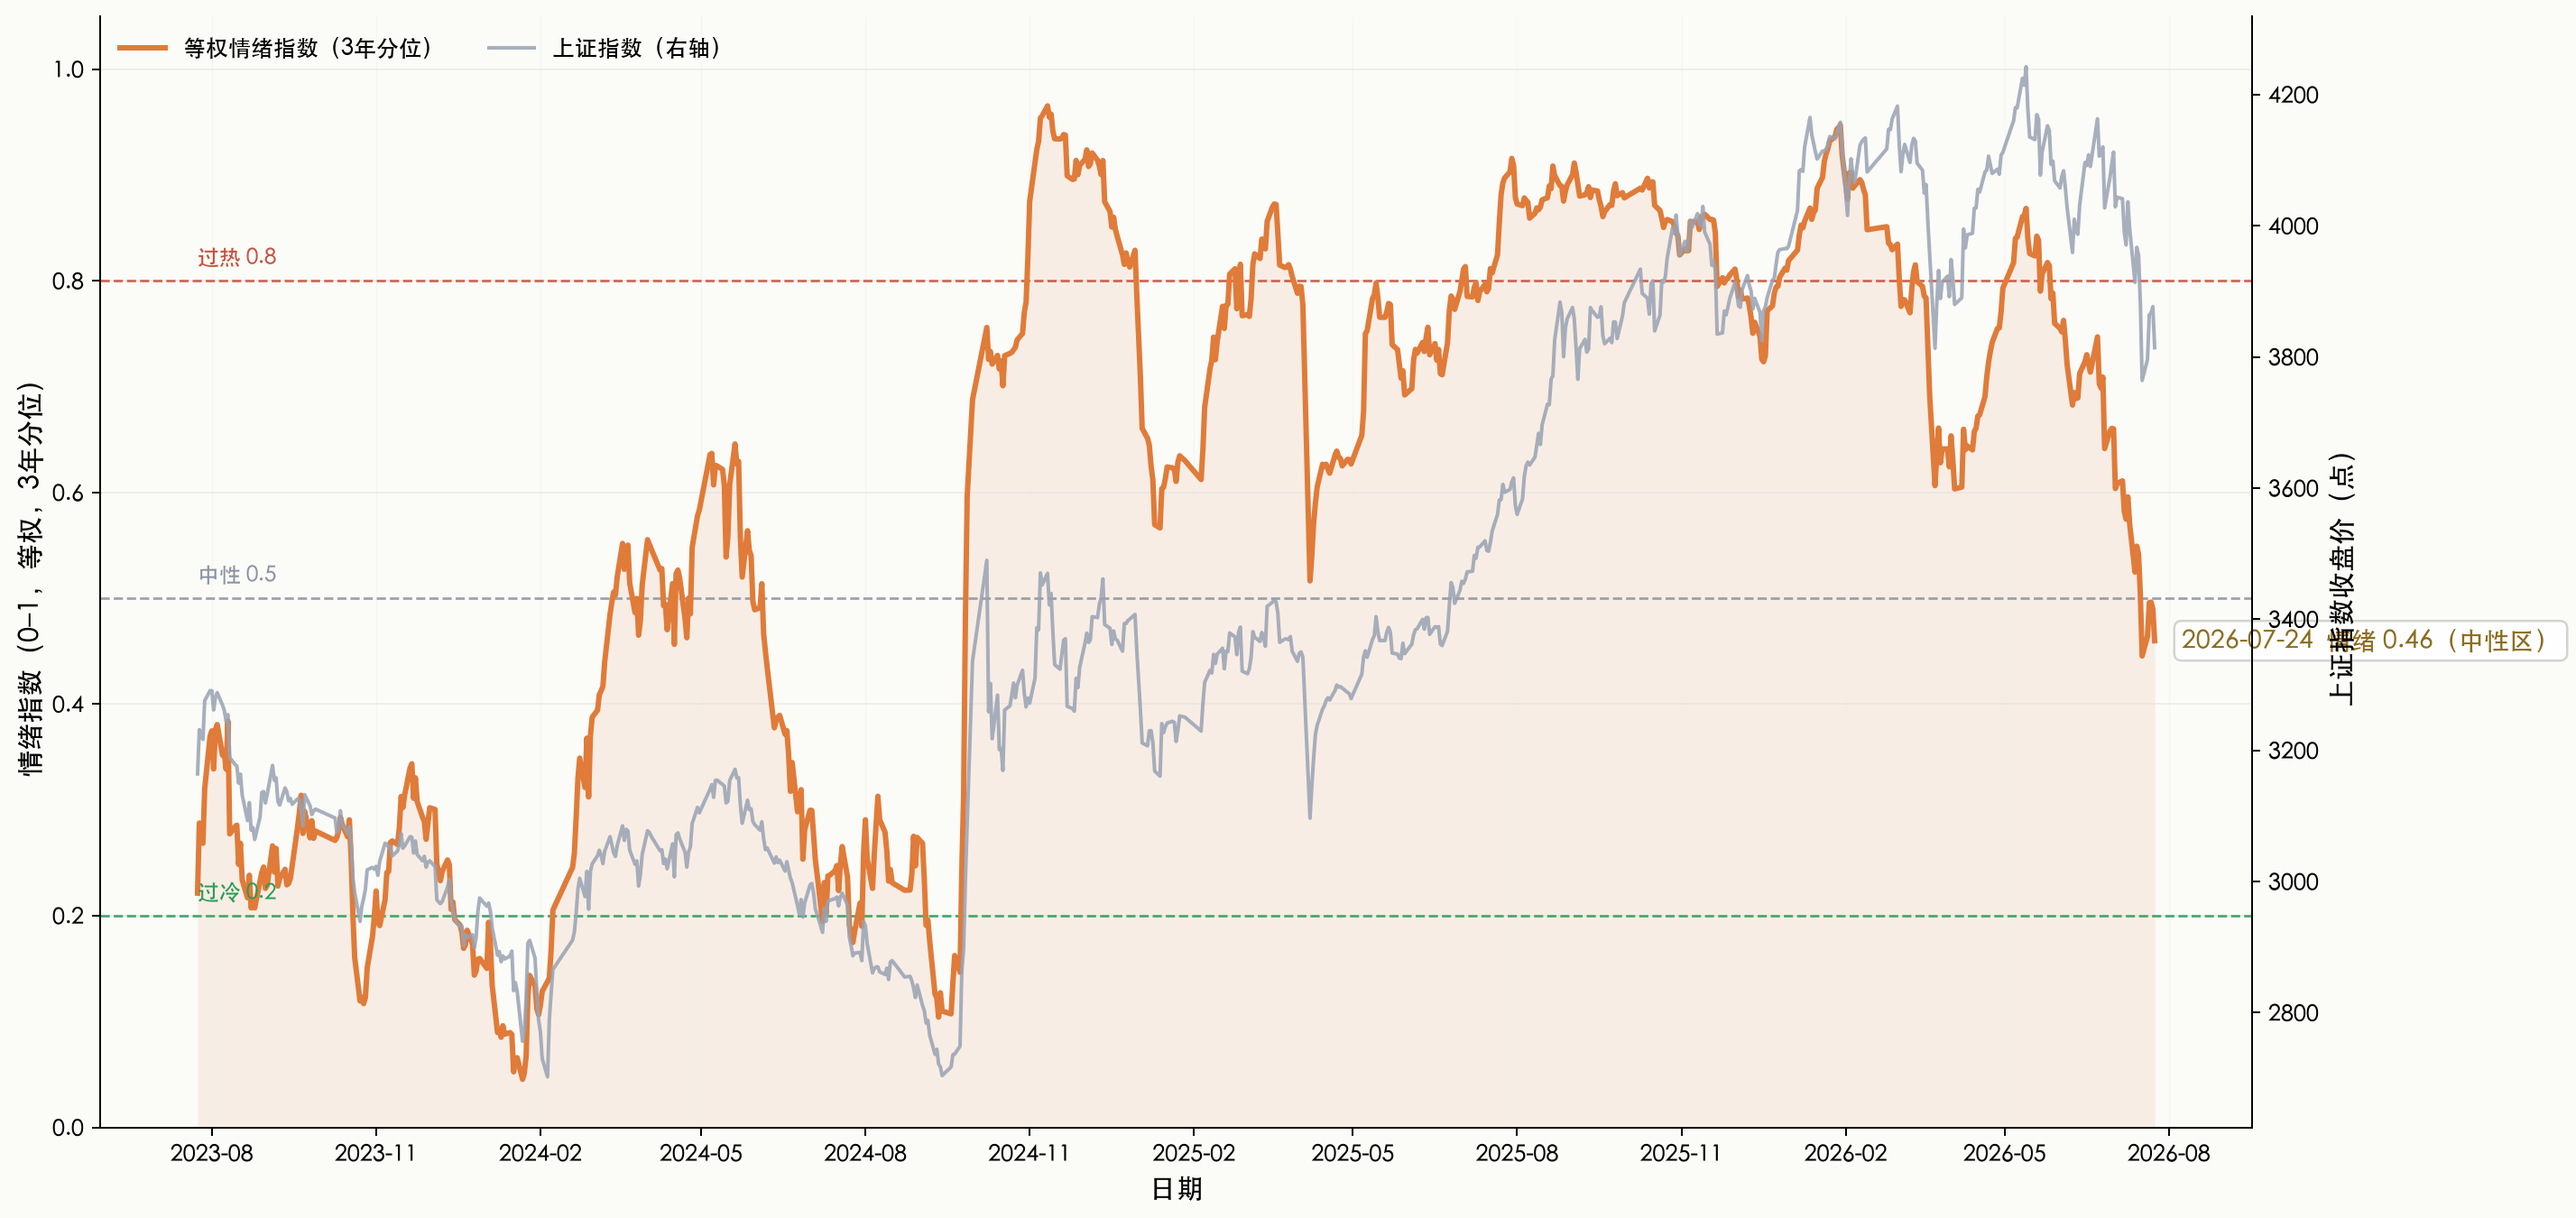
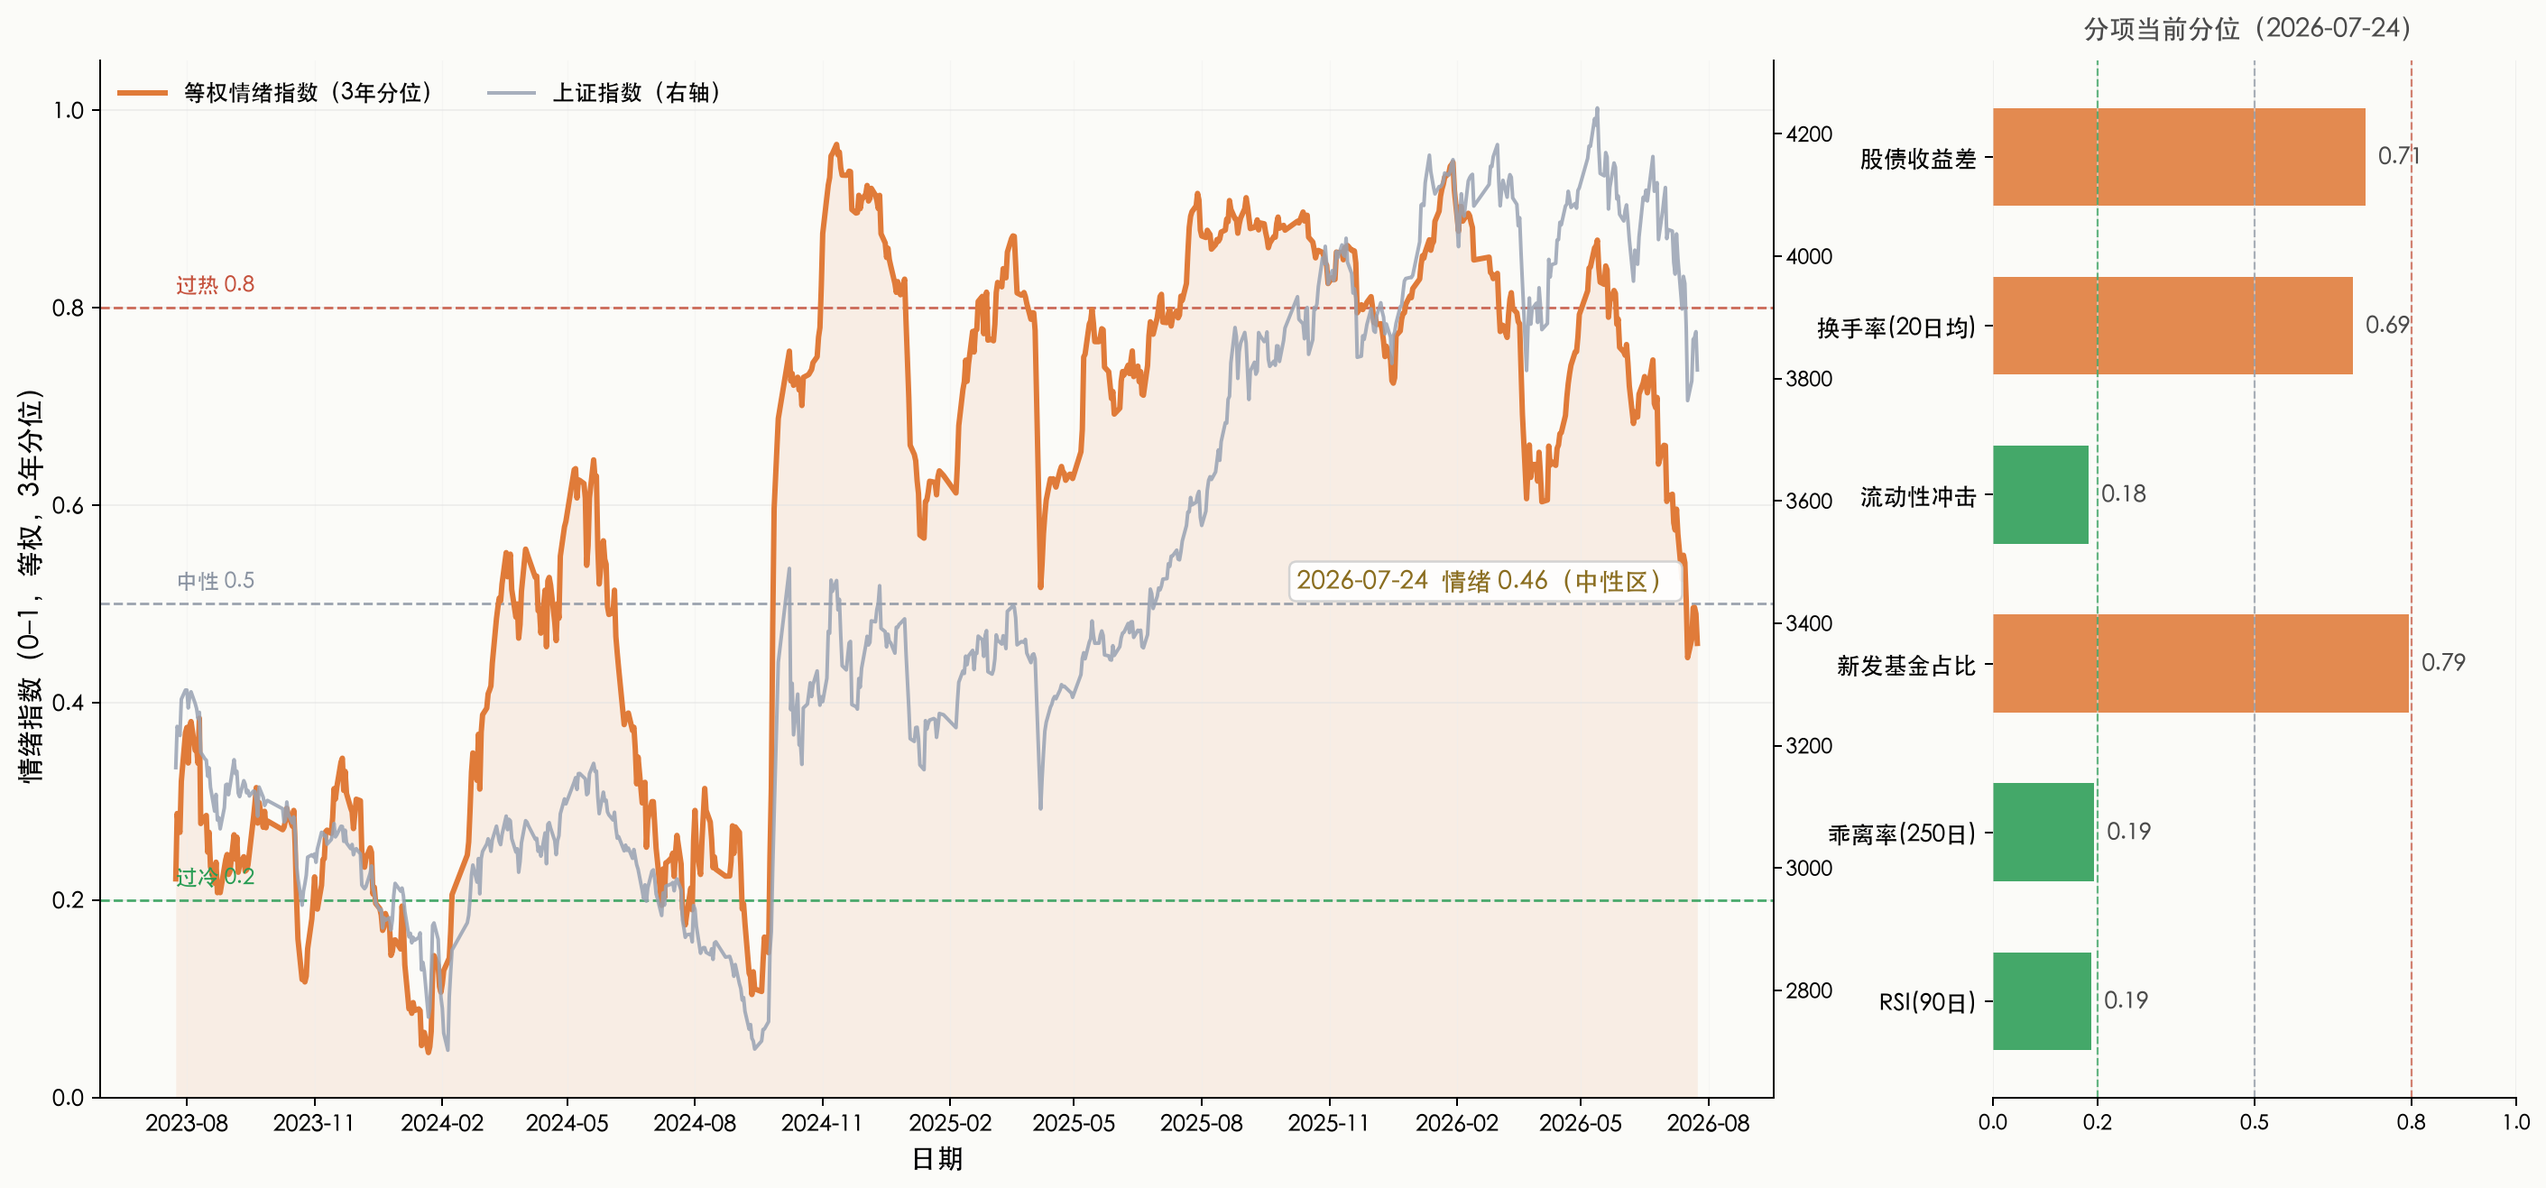
add component percentile side panel to sentiment chart; move concentration chart to sentiment panel

diff --git a/site/index.html b/site/index.html
@@ -96,15 +96,7 @@
     <section class="category-panel" id="panel-liquidity" data-category="liquidity" hidden>
       <div class="category-head"><span class="sec-num">05</span><h2>流动性</h2></div>
       <section class="chart-section">
-        <h2><span class="chart-num">007</span>A股成交额前10大公司交易集中度变化（截至2026-07-06）<span class="freq-badge">日频</span></h2>
-        <img src="assets/charts/fig_003_a_share_turnover_concentration.png?v=20260706" alt="A股成交额前10大公司交易集中度变化">
-        <div class="chart-notes">
-          <p><strong>数据说明：</strong>样本覆盖当前沪深京A股清单；逐日计算前10、前100成交额占比。右轴为上证指数收盘价。</p>
-          <p><strong>风险提示：</strong>个股成交额排名依赖公开行情接口完整性；停牌、新股、北交所覆盖和接口延迟都可能影响集中度读数。</p>
-        </div>
-      </section>
-      <section class="chart-section">
-        <h2><span class="chart-num">008</span>南向资金每日净流入（截至2026-07-24）<span class="freq-badge">日频</span></h2>
+        <h2><span class="chart-num">007</span>南向资金每日净流入（截至2026-07-24）<span class="freq-badge">日频</span></h2>
         <img src="assets/charts/fig_009_southbound_flow.png?v=20260724" alt="南向资金每日净流入">
         <div class="chart-notes">
           <p><strong>数据说明：</strong>区间自 2026-01-01 起。数据来自东方财富沪深港通历史数据，经 AkShare 获取；净流入口径为“当日成交净买额”，单位为亿元。</p>
@@ -112,7 +104,7 @@
         </div>
       </section>
       <section class="chart-section">
-        <h2><span class="chart-num">009</span>沪深300/上证指数 vs. 大宽基ETF资金流<span class="freq-badge">日频</span></h2>
+        <h2><span class="chart-num">008</span>沪深300/上证指数 vs. 大宽基ETF资金流<span class="freq-badge">日频</span></h2>
         <img src="assets/charts/fig_001_broad_etf_flow.png?v=20260706" alt="沪深300与上证指数走势及大宽基ETF资金流">
         <div class="chart-notes">
           <p><strong>数据说明：</strong>样本：510300、510310、510330、159919、510050。上交所 ETF 份额来自上交所历史规模接口；159919 份额来自深交所基金规模日频接口。净流入口径为份额变化乘以单位净值；7日滚动合计按交易日滚动计算。</p>
@@ -120,7 +112,7 @@
         </div>
       </section>
       <section class="chart-section">
-        <h2><span class="chart-num">010</span>科创50指数 vs. 科创50ETF资金流<span class="freq-badge">日频</span></h2>
+        <h2><span class="chart-num">009</span>科创50指数 vs. 科创50ETF资金流<span class="freq-badge">日频</span></h2>
         <img src="assets/charts/fig_002_star50_etf_flow.png?v=20260706" alt="科创50指数走势及科创50ETF资金流">
         <div class="chart-notes">
           <p><strong>数据说明：</strong>样本：588000 华夏科创50ETF。净流入口径为份额变化乘以单位净值；7日滚动合计按交易日滚动计算。</p>
@@ -132,11 +124,19 @@
     <section class="category-panel" id="panel-sentiment" data-category="sentiment" hidden>
       <div class="category-head"><span class="sec-num">06</span><h2>情绪</h2></div>
       <section class="chart-section">
-        <h2><span class="chart-num">011</span>上证等权情绪指数（3年分位）（截至2026-07-24）<span class="freq-badge">日频</span></h2>
+        <h2><span class="chart-num">010</span>上证等权情绪指数（3年分位）（截至2026-07-24）<span class="freq-badge">日频</span></h2>
         <img src="assets/charts/fig_011_sentiment_index.png?v=20260724" alt="上证等权情绪指数">
         <div class="chart-notes">
           <p><strong>数据说明：</strong>六个指标等权平均：股债收益差、自由流通换手率(20日均)、流动性冲击、30日新发基金占比、乖离率(250日)、RSI(90日)；各取过去750个交易日(约3年)分位数后等权。当前各指标分位：股债收益差 0.71；换手率 0.69；流动性冲击 0.18；新发基金占比 0.79；乖离率 0.19；RSI 0.19。</p>
           <p><strong>风险提示：</strong>情绪指数是历史相对位置的观察，不代表买卖建议；增量数据来自 Wind 与公开接口，换手率增量按普通换手率×2.607折算自由流通口径，可能与精确值有小幅偏差。</p>
+        </div>
+      </section>
+      <section class="chart-section">
+        <h2><span class="chart-num">011</span>A股成交额前10大公司交易集中度变化（截至2026-07-06）<span class="freq-badge">日频</span></h2>
+        <img src="assets/charts/fig_003_a_share_turnover_concentration.png?v=20260706" alt="A股成交额前10大公司交易集中度变化">
+        <div class="chart-notes">
+          <p><strong>数据说明：</strong>样本覆盖当前沪深京A股清单；逐日计算前10、前100成交额占比。右轴为上证指数收盘价。</p>
+          <p><strong>风险提示：</strong>个股成交额排名依赖公开行情接口完整性；停牌、新股、北交所覆盖和接口延迟都可能影响集中度读数。</p>
         </div>
       </section>
       <section class="chart-section">

diff --git a/scripts/build_site_from_processed.py b/scripts/build_site_from_processed.py
@@ -539,8 +539,10 @@ def draw_sentiment_chart(df: pd.DataFrame, metadata: dict, out_path: Path) -> di
     latest_date = latest["date"].strftime("%Y-%m-%d")
     latest_val = latest["sentiment_3y"]
 
-    fig, ax1 = plt.subplots(figsize=(16, 7.6), dpi=180)
+    fig = plt.figure(figsize=(16, 7.6), dpi=180)
+    gs = fig.add_gridspec(1, 2, width_ratios=[3.2, 1.0], wspace=0.20, left=0.055, right=0.985, top=0.93, bottom=0.09)
     fig.patch.set_facecolor("#fbfbf8")
+    ax1 = fig.add_subplot(gs[0, 0])
     ax1.set_facecolor("#fbfbf8")
     ax2 = ax1.twinx()
     ax2.plot(plot_df["date"], plot_df["close"], color="#98a2b3", linewidth=1.6, alpha=0.85, label="上证指数（右轴）")
@@ -553,16 +555,17 @@ def draw_sentiment_chart(df: pd.DataFrame, metadata: dict, out_path: Path) -> di
     ax1.annotate(
         f"{latest_date}  情绪 {latest_val:.2f}（{zone}）",
         xy=(latest["date"], latest_val),
-        xytext=(12, 0),
+        xytext=(-10, 22),
         textcoords="offset points",
-        va="center",
+        ha="right",
+        va="bottom",
         fontsize=11,
         color=zcolor,
         bbox={"boxstyle": "round,pad=0.3", "facecolor": "#ffffff", "edgecolor": "#d0d0d0", "alpha": 0.92},
     )
     ax1.set_ylim(0, 1.05)
     ax1.set_ylabel("情绪指数（0–1，等权，3年分位）", fontsize=12)
-    ax2.set_ylabel("上证指数收盘价（点）", fontsize=12)
+    ax2.tick_params(axis="y", labelsize=9, pad=2)
     ax1.set_xlabel("日期", fontsize=12)
     ax1.grid(axis="y", color="#e3e3e3", linewidth=0.7, alpha=0.6)
     ax1.grid(axis="x", color="#eeeeee", linewidth=0.5, alpha=0.45)
@@ -573,7 +576,39 @@ def draw_sentiment_chart(df: pd.DataFrame, metadata: dict, out_path: Path) -> di
     ax1.legend(lines1 + lines2, labels1 + labels2, loc="upper left", ncol=2, frameon=False, fontsize=10)
     ax1.spines[["top", "right"]].set_visible(False)
     ax2.spines[["top", "left"]].set_visible(False)
-    fig.tight_layout()
+
+    comp_specs = [
+        ("股债收益差", "pe_spread_pct3"),
+        ("换手率(20日均)", "turn_ma20_pct3"),
+        ("流动性冲击", "ls_pct3"),
+        ("新发基金占比", "fund30_pct3"),
+        ("乖离率(250日)", "bias250_pct3"),
+        ("RSI(90日)", "rsi90_pct3"),
+    ]
+    comp_names, comp_vals = [], []
+    for name, col in comp_specs:
+        val = latest.get(col)
+        if pd.notna(val):
+            comp_names.append(name)
+            comp_vals.append(float(val))
+    axb = fig.add_subplot(gs[0, 1])
+    axb.set_facecolor("#fbfbf8")
+    ypos = range(len(comp_vals) - 1, -1, -1)
+    bar_colors = ["#c5513c" if v >= 0.8 else "#2a9d55" if v <= 0.2 else "#e07b39" for v in comp_vals]
+    axb.barh(list(ypos), comp_vals, height=0.58, color=bar_colors, alpha=0.88)
+    for y, v in zip(ypos, comp_vals):
+        axb.text(min(v + 0.025, 0.97), y, f"{v:.2f}", va="center", fontsize=10.5, color="#4a4a4a")
+    for level, color in [(0.2, "#2a9d55"), (0.5, "#8a93a1"), (0.8, "#c5513c")]:
+        axb.axvline(level, linestyle="--", color=color, linewidth=0.9, alpha=0.7)
+    axb.set_yticks(list(ypos))
+    axb.set_yticklabels(comp_names, fontsize=10.5)
+    axb.set_xlim(0, 1.0)
+    axb.set_xticks([0, 0.2, 0.5, 0.8, 1.0])
+    axb.tick_params(axis="x", labelsize=9)
+    axb.set_title(f"分项当前分位（{latest_date}）", fontsize=11.5, color="#4a4a4a", pad=10)
+    axb.grid(axis="x", color="#e3e3e3", linewidth=0.7, alpha=0.6)
+    axb.spines[["top", "right", "left"]].set_visible(False)
+
     fig.savefig(out_path, bbox_inches="tight")
     plt.close(fig)
     return {"path": str(out_path.relative_to(ROOT)), "last_date": latest_date, "value": float(latest_val)}
@@ -700,7 +735,7 @@ def build_page(
     southbound_html = ""
     if southbound_chart:
         southbound_html = f'''      <section class="chart-section">
-        <h2><span class="chart-num">008</span>南向资金每日净流入（截至{southbound_chart["last_date"]}）{freq_badge("日频")}</h2>
+        <h2><span class="chart-num">007</span>南向资金每日净流入（截至{southbound_chart["last_date"]}）{freq_badge("日频")}</h2>
         <img src="assets/charts/{Path(southbound_chart["path"]).name}?v={southbound_chart["last_date"].replace("-", "")}" alt="南向资金每日净流入">
         {chart_note_block(
             "区间自 2026-01-01 起。数据来自东方财富沪深港通历史数据，经 AkShare 获取；净流入口径为“当日成交净买额”，单位为亿元。",
@@ -730,7 +765,7 @@ def build_page(
         components = (sentiment_meta or {}).get("components", {})
         comp_text = "；".join(f"{k} {v:.2f}" for k, v in components.items() if v is not None)
         sentiment_html = f'''      <section class="chart-section">
-        <h2><span class="chart-num">011</span>上证等权情绪指数（3年分位）（截至{sentiment_chart["last_date"]}）{freq_badge("日频")}</h2>
+        <h2><span class="chart-num">010</span>上证等权情绪指数（3年分位）（截至{sentiment_chart["last_date"]}）{freq_badge("日频")}</h2>
         <img src="assets/charts/{Path(sentiment_chart["path"]).name}?v={sentiment_chart["last_date"].replace("-", "")}" alt="上证等权情绪指数">
         {chart_note_block(
             f"六个指标等权平均：股债收益差、自由流通换手率(20日均)、流动性冲击、30日新发基金占比、乖离率(250日)、RSI(90日)；各取过去750个交易日(约3年)分位数后等权。当前各指标分位：{comp_text}。",
@@ -804,17 +839,9 @@ def build_page(
 
     <section class="category-panel" id="panel-liquidity" data-category="liquidity" hidden>
       <div class="category-head"><span class="sec-num">05</span><h2>流动性</h2></div>
-      <section class="chart-section">
-        <h2><span class="chart-num">007</span>A股成交额前10大公司交易集中度变化（截至{chart3["last_date"]}）{freq_badge("日频")}</h2>
-        <img src="assets/charts/fig_003_a_share_turnover_concentration.png?v={asset_version}" alt="A股成交额前10大公司交易集中度变化">
-        {chart_note_block(
-            "样本覆盖当前沪深京A股清单；逐日计算前10、前100成交额占比。右轴为上证指数收盘价。",
-            "个股成交额排名依赖公开行情接口完整性；停牌、新股、北交所覆盖和接口延迟都可能影响集中度读数。",
-        )}
-      </section>
 {southbound_html}
       <section class="chart-section">
-        <h2><span class="chart-num">009</span>沪深300/上证指数 vs. 大宽基ETF资金流{freq_badge("日频")}</h2>
+        <h2><span class="chart-num">008</span>沪深300/上证指数 vs. 大宽基ETF资金流{freq_badge("日频")}</h2>
         <img src="assets/charts/fig_001_broad_etf_flow.png?v={asset_version}" alt="沪深300与上证指数走势及大宽基ETF资金流">
         {chart_note_block(
             "样本：510300、510310、510330、159919、510050。上交所 ETF 份额来自上交所历史规模接口；159919 份额来自深交所基金规模日频接口。净流入口径为份额变化乘以单位净值；7日滚动合计按交易日滚动计算。",
@@ -822,7 +849,7 @@ def build_page(
         )}
       </section>
       <section class="chart-section">
-        <h2><span class="chart-num">010</span>科创50指数 vs. 科创50ETF资金流{freq_badge("日频")}</h2>
+        <h2><span class="chart-num">009</span>科创50指数 vs. 科创50ETF资金流{freq_badge("日频")}</h2>
         <img src="assets/charts/fig_002_star50_etf_flow.png?v={asset_version}" alt="科创50指数走势及科创50ETF资金流">
         {chart_note_block(
             "样本：588000 华夏科创50ETF。净流入口径为份额变化乘以单位净值；7日滚动合计按交易日滚动计算。",
@@ -834,6 +861,14 @@ def build_page(
     <section class="category-panel" id="panel-sentiment" data-category="sentiment" hidden>
       <div class="category-head"><span class="sec-num">06</span><h2>情绪</h2></div>
 {sentiment_html}
+      <section class="chart-section">
+        <h2><span class="chart-num">011</span>A股成交额前10大公司交易集中度变化（截至{chart3["last_date"]}）{freq_badge("日频")}</h2>
+        <img src="assets/charts/fig_003_a_share_turnover_concentration.png?v={asset_version}" alt="A股成交额前10大公司交易集中度变化">
+        {chart_note_block(
+            "样本覆盖当前沪深京A股清单；逐日计算前10、前100成交额占比。右轴为上证指数收盘价。",
+            "个股成交额排名依赖公开行情接口完整性；停牌、新股、北交所覆盖和接口延迟都可能影响集中度读数。",
+        )}
+      </section>
 {amount_share_html}
 {theme_amount_html}
 {industry_crowding_html}
